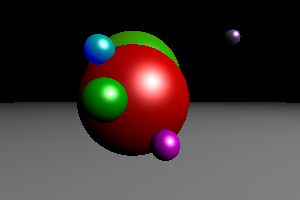
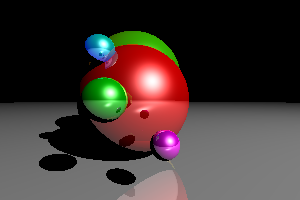
reflections

diff --git a/raytracer_thoramature.py b/raytracer_thoramature.py
@@ -55,10 +55,11 @@ def sphere_intersect(center, radius, ray_origin, ray_direction):
     return None
 
 
+# naive approach to find the ray intersection.
 def nearest_intersected_object(objects, ray_origin, ray_direction):
     distances = [sphere_intersect(
         obj.center, obj.radius, ray_origin, ray_direction) for obj in objects]
-    # print(distances)
+    print(distances)
     nearest_object = None
     min_distance = np.inf
     for index, distance in enumerate(distances):
@@ -71,7 +72,7 @@ def nearest_intersected_object(objects, ray_origin, ray_direction):
 width = 300
 height = 200
 
-max_depth = 1
+max_depth = 3
 
 camera = np.array([0, 0, 1])
 ratio = float(width) / height
@@ -99,7 +100,7 @@ objects = [
 newobjects = [Sphere(np.array([random.uniform(-0.3, 0.7), random.uniform(0, 0.8), random.uniform(0, -3)]), random.uniform(0, 0.2), np.array([0.1, 0.1, 0.1]),
                      np.array([random.uniform(0, 0.6), random.uniform(0, 0.6), random.uniform(0, 0.6)]), np.array([1, 1, 1]), 100, random.uniform(0, 0.5)) for k in range(10)]
 
-objects.extend(newobjects)
+# objects.extend(newobjects)
 
 tree = BVHTree(objects)
 print(tree)
@@ -122,9 +123,9 @@ for i, y in enumerate(np.linspace(screen[1], screen[3], height)):
 
         for k in range(max_depth):
             # check for intersections
-            # nearest_object, min_distance = tree.traverse(origin, direction)
-            nearest_object, min_distance = nearest_intersected_object(
-                objects, origin, direction)
+            nearest_object, min_distance = tree.traverse(origin, direction)
+            # nearest_object, min_distance = nearest_intersected_object(
+            #     objects, origin, direction)
 
             if nearest_object is None:
                 break
@@ -138,12 +139,14 @@ for i, y in enumerate(np.linspace(screen[1], screen[3], height)):
 
             # _, min_distance = nearest_intersected_object(
             #     objects, shifted_point, intersection_to_light)
-            # intersection_to_light_distance = np.linalg.norm(
-            #     light.position - intersection)
-            # is_shadowed = min_distance < intersection_to_light_distance
+            _, min_distance = tree.traverse(
+                shifted_point, intersection_to_light)
+            intersection_to_light_distance = np.linalg.norm(
+                light.position - intersection)
+            is_shadowed = min_distance < intersection_to_light_distance
 
-            # if is_shadowed:
-            #     break
+            if is_shadowed:
+                break
 
             illumination = np.zeros((3))
 

diff --git a/bvh.py b/bvh.py
@@ -100,7 +100,8 @@ class BVHTree:
         return dist
 
     def traverse(self, rayOrigin, rayDirection):
-        stack = [self.root]
+        # if type == 'origin':
+        stack = [self.root.left, self.root.right]
         minDist = inf
         nearest = None
         while len(stack) > 0:
@@ -109,7 +110,7 @@ class BVHTree:
             if node.box_intersect(rayOrigin, rayDirection):
                 if node.left is None and node.right is None:
                     dist = node.sphere.intersect(rayOrigin, rayDirection)
-                    # print(dist)
+
                     if dist is not None:
                         if dist < minDist:
                             minDist = dist
@@ -120,5 +121,7 @@ class BVHTree:
                     stack.append(node.right)
 
         if nearest is None:
-            return None, None
+            return None, inf
         return nearest
+
+        # else:
